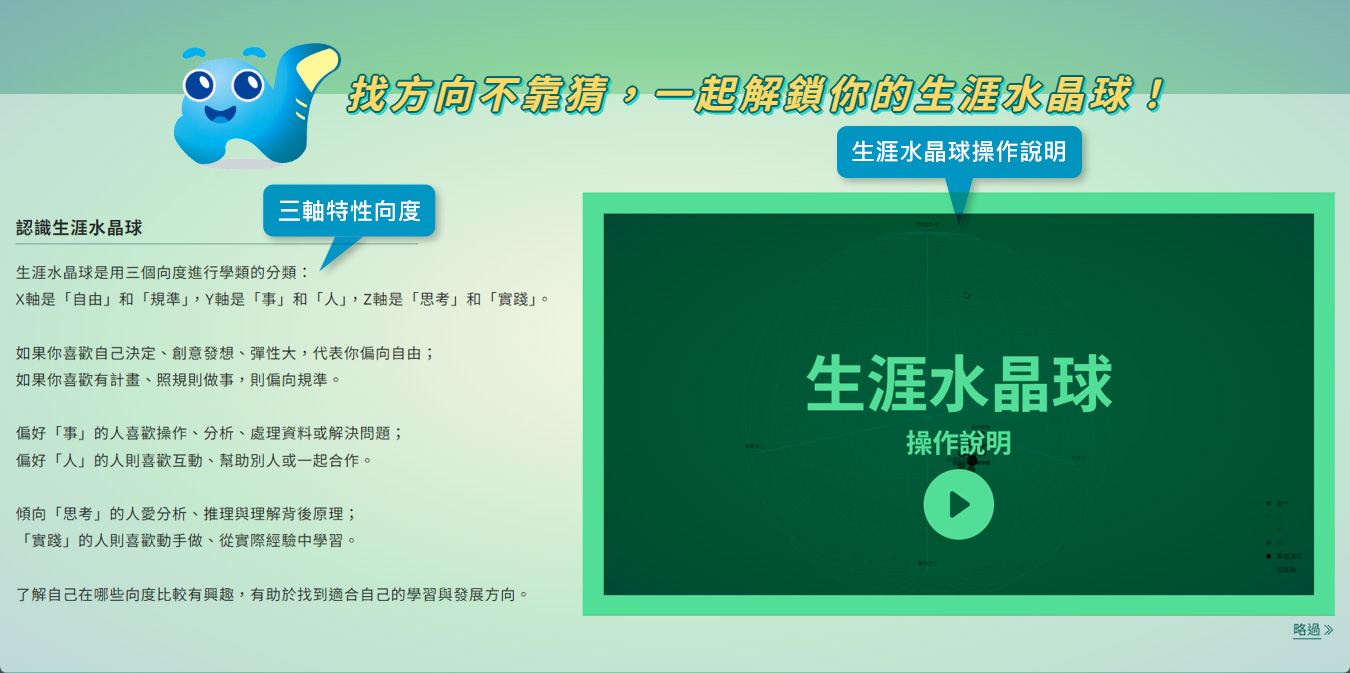
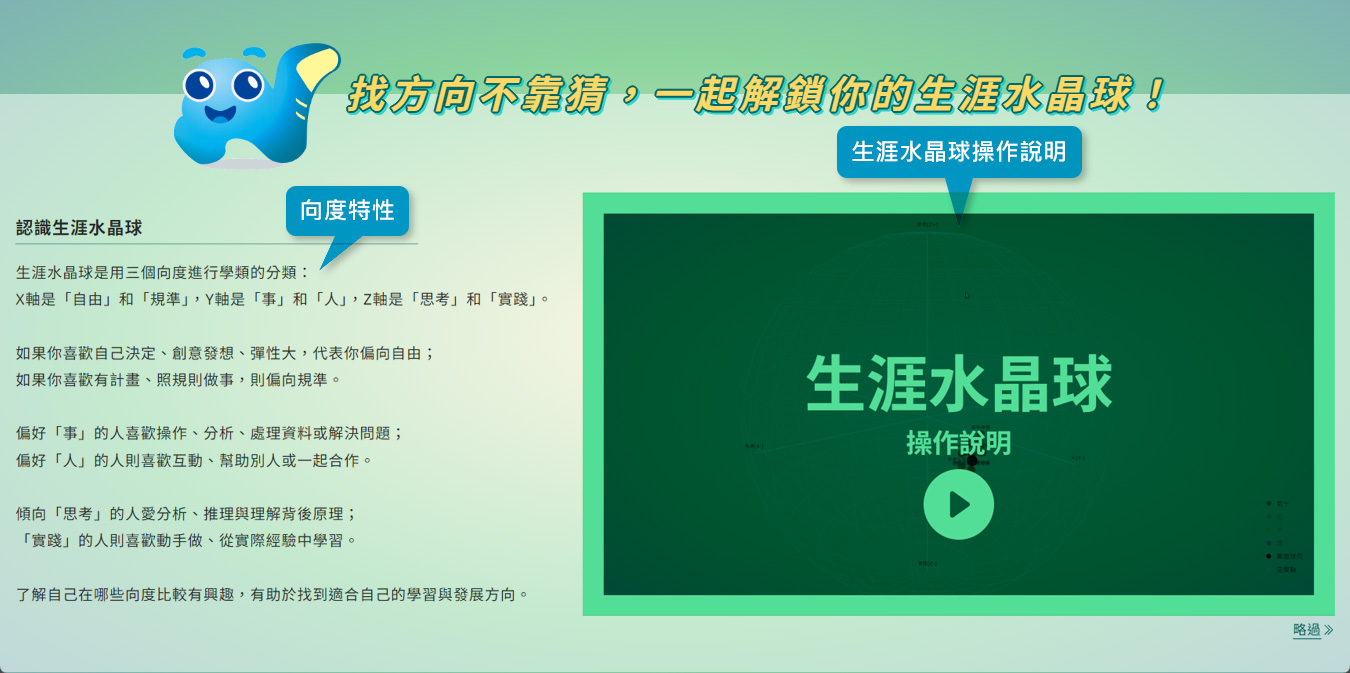
TEACHER 20260812

Changed region(s): [[0.1867, 0.2496, 0.3422, 0.3744]]

diff --git a/TEACHER/css/TI.css b/TEACHER/css/TI.css
@@ -27,7 +27,8 @@ ul.menu {
     width: 10px;
     height: 10px;
     background-image: url(../images/TI/UI.png);
-    background-position: 0px -96px; }
+    background-position: 0px -96px;
+    transform: translateX(-50%); }
   .subMenu .subMenu-bg {
     width: 100%; }
     .subMenu .subMenu-bg span {
@@ -48,33 +49,37 @@ ul.menu {
     .subMenu a:hover, .subMenu a.active {
       color: #fced03; }
   .subMenu.sub1 .subMenu-arrow {
-    margin-left: calc(938px/7*1 - 938px/7/2 - 10px/2); }
+    margin-left: 7.1428571429%; }
   .subMenu.sub1 .subMenu-bg {
     padding-left: 10px; }
   .subMenu.sub2 .subMenu-arrow {
-    margin-left: calc(938px/7*2 - 938px/7/2 - 10px/2); }
+    margin-left: 21.4285714286%; }
   .subMenu.sub2 .subMenu-bg {
-    padding-left: calc(938px/7*1); }
+    padding-left: 14.2857142857%; }
   .subMenu.sub3 .subMenu-arrow {
-    margin-left: calc(938px/7*3 - 938px/7/2 - 10px/2); }
+    margin-left: 35.7142857143%; }
   .subMenu.sub3 .subMenu-bg {
-    padding-left: calc(938px/7*2); }
+    padding-left: 28.5714285714%; }
   .subMenu.sub4 .subMenu-arrow {
-    margin-left: calc(938px/7*4 - 938px/7/2 - 10px/2); }
+    margin-left: 50%; }
   .subMenu.sub4 .subMenu-bg {
-    padding-left: calc(938px/7*3); }
+    padding-left: 42.8571428571%; }
   .subMenu.sub5 .subMenu-arrow {
-    margin-left: calc(938px/7*5 - 938px/7/2 - 10px/2); }
+    margin-left: 64.2857142857%; }
   .subMenu.sub5 .subMenu-bg {
-    padding-left: calc(938px/7*4); }
+    padding-left: 57.1428571429%; }
   .subMenu.sub6 .subMenu-arrow {
-    margin-left: calc(938px/7*6 - 938px/7/2 - 10px/2); }
+    margin-left: 78.5714285714%; }
   .subMenu.sub6 .subMenu-bg {
-    padding-left: calc(938px/7*5); }
+    padding-left: 71.4285714286%; }
   .subMenu.sub7 .subMenu-arrow {
-    margin-left: calc(938px/7*7 - 938px/7/2 - 10px/2); }
+    margin-left: 92.8571428571%; }
   .subMenu.sub7 .subMenu-bg {
-    padding-left: calc(938px/7*6); }
+    padding-left: 85.7142857143%; }
+  .subMenu.sub6 .subMenu-bg {
+    padding-left: 0;
+    text-align: right;
+    padding-right: 10px; }
 
 .subsubMenu {
   padding-top: 10px;
@@ -145,5 +150,3 @@ ul.menu {
         .content_block li dl dd .subtitle {
           color: #398006;
           font-size: 1.05em; }
-
-/*# sourceMappingURL=TI.css.map */

diff --git a/TEACHER/css/TA.css b/TEACHER/css/TA.css
@@ -27,7 +27,8 @@ ul.menu {
     width: 10px;
     height: 10px;
     background-image: url(../images/TA/UI.png);
-    background-position: 0px -96px; }
+    background-position: 0px -96px;
+    transform: translateX(-50%); }
   .subMenu .subMenu-bg {
     width: 100%; }
     .subMenu .subMenu-bg span {
@@ -48,33 +49,33 @@ ul.menu {
     .subMenu a:hover, .subMenu a.active {
       color: #fced03; }
   .subMenu.sub1 .subMenu-arrow {
-    margin-left: calc(938px/7*1 - 938px/7/2 - 10px/2); }
+    margin-left: 7.1428571429%; }
   .subMenu.sub1 .subMenu-bg {
     padding-left: 10px; }
   .subMenu.sub2 .subMenu-arrow {
-    margin-left: calc(938px/7*2 - 938px/7/2 - 10px/2); }
+    margin-left: 21.4285714286%; }
   .subMenu.sub2 .subMenu-bg {
-    padding-left: calc(938px/7*1); }
+    padding-left: 14.2857142857%; }
   .subMenu.sub3 .subMenu-arrow {
-    margin-left: calc(938px/7*3 - 938px/7/2 - 10px/2); }
+    margin-left: 35.7142857143%; }
   .subMenu.sub3 .subMenu-bg {
-    padding-left: calc(938px/7*2); }
+    padding-left: 28.5714285714%; }
   .subMenu.sub4 .subMenu-arrow {
-    margin-left: calc(938px/7*4 - 938px/7/2 - 10px/2); }
+    margin-left: 50%; }
   .subMenu.sub4 .subMenu-bg {
-    padding-left: calc(938px/7*3); }
+    padding-left: 42.8571428571%; }
   .subMenu.sub5 .subMenu-arrow {
-    margin-left: calc(938px/7*5 - 938px/7/2 - 10px/2); }
+    margin-left: 64.2857142857%; }
   .subMenu.sub5 .subMenu-bg {
-    padding-left: calc(938px/7*4); }
+    padding-left: 57.1428571429%; }
   .subMenu.sub6 .subMenu-arrow {
-    margin-left: calc(938px/7*6 - 938px/7/2 - 10px/2); }
+    margin-left: 78.5714285714%; }
   .subMenu.sub6 .subMenu-bg {
-    padding-left: calc(938px/7*5); }
+    padding-left: 71.4285714286%; }
   .subMenu.sub7 .subMenu-arrow {
-    margin-left: calc(938px/7*7 - 938px/7/2 - 10px/2); }
+    margin-left: 92.8571428571%; }
   .subMenu.sub7 .subMenu-bg {
-    padding-left: calc(938px/7*6); }
+    padding-left: 85.7142857143%; }
 
 .subsubMenu {
   padding-top: 10px;
@@ -145,5 +146,3 @@ ul.menu {
         .content_block li dl dd .subtitle {
           color: #0b5e61;
           font-size: 1.05em; }
-
-/*# sourceMappingURL=TA.css.map */

diff --git a/TEACHER/css/TW.css b/TEACHER/css/TW.css
@@ -27,7 +27,8 @@ ul.menu {
     width: 10px;
     height: 10px;
     background-image: url(../images/TW/UI.png);
-    background-position: 0px -96px; }
+    background-position: 0px -96px;
+    transform: translateX(-50%); }
   .subMenu .subMenu-bg {
     width: 100%; }
     .subMenu .subMenu-bg span {
@@ -48,33 +49,33 @@ ul.menu {
     .subMenu a:hover, .subMenu a.active {
       color: #fced03; }
   .subMenu.sub1 .subMenu-arrow {
-    margin-left: calc(938px/7*1 - 938px/7/2 - 10px/2); }
+    margin-left: 7.1428571429%; }
   .subMenu.sub1 .subMenu-bg {
     padding-left: 10px; }
   .subMenu.sub2 .subMenu-arrow {
-    margin-left: calc(938px/7*2 - 938px/7/2 - 10px/2); }
+    margin-left: 21.4285714286%; }
   .subMenu.sub2 .subMenu-bg {
-    padding-left: calc(938px/7*1); }
+    padding-left: 14.2857142857%; }
   .subMenu.sub3 .subMenu-arrow {
-    margin-left: calc(938px/7*3 - 938px/7/2 - 10px/2); }
+    margin-left: 35.7142857143%; }
   .subMenu.sub3 .subMenu-bg {
-    padding-left: calc(938px/7*2); }
+    padding-left: 28.5714285714%; }
   .subMenu.sub4 .subMenu-arrow {
-    margin-left: calc(938px/7*4 - 938px/7/2 - 10px/2); }
+    margin-left: 50%; }
   .subMenu.sub4 .subMenu-bg {
-    padding-left: calc(938px/7*3); }
+    padding-left: 42.8571428571%; }
   .subMenu.sub5 .subMenu-arrow {
-    margin-left: calc(938px/7*5 - 938px/7/2 - 10px/2); }
+    margin-left: 64.2857142857%; }
   .subMenu.sub5 .subMenu-bg {
-    padding-left: calc(938px/7*4); }
+    padding-left: 57.1428571429%; }
   .subMenu.sub6 .subMenu-arrow {
-    margin-left: calc(938px/7*6 - 938px/7/2 - 10px/2); }
+    margin-left: 78.5714285714%; }
   .subMenu.sub6 .subMenu-bg {
-    padding-left: calc(938px/7*5); }
+    padding-left: 71.4285714286%; }
   .subMenu.sub7 .subMenu-arrow {
-    margin-left: calc(938px/7*7 - 938px/7/2 - 10px/2); }
+    margin-left: 92.8571428571%; }
   .subMenu.sub7 .subMenu-bg {
-    padding-left: calc(938px/7*6); }
+    padding-left: 85.7142857143%; }
 
 .subsubMenu {
   padding-top: 10px;
@@ -145,5 +146,3 @@ ul.menu {
         .content_block li dl dd .subtitle {
           color: #ff4301;
           font-size: 1.05em; }
-
-/*# sourceMappingURL=TW.css.map */

diff --git a/TEACHER/css/Default.css b/TEACHER/css/Default.css
@@ -47,7 +47,8 @@
     width: 10px;
     height: 10px;
     background-image: url(../images/Default/UI.png);
-    background-position: 0px -96px; }
+    background-position: 0px -96px;
+    transform: translateX(-50%); }
   .subMenu .subMenu-bg {
     width: 100%; }
     .subMenu .subMenu-bg span {
@@ -68,33 +69,33 @@
     .subMenu a:hover, .subMenu a.active {
       color: #fced03; }
   .subMenu.sub1 .subMenu-arrow {
-    margin-left: calc(938px/7*1 - 938px/7/2 - 10px/2); }
+    margin-left: 7.1428571429%; }
   .subMenu.sub1 .subMenu-bg {
     padding-left: 10px; }
   .subMenu.sub2 .subMenu-arrow {
-    margin-left: calc(938px/7*2 - 938px/7/2 - 10px/2); }
+    margin-left: 21.4285714286%; }
   .subMenu.sub2 .subMenu-bg {
-    padding-left: calc(938px/7*1); }
+    padding-left: 14.2857142857%; }
   .subMenu.sub3 .subMenu-arrow {
-    margin-left: calc(938px/7*3 - 938px/7/2 - 10px/2); }
+    margin-left: 35.7142857143%; }
   .subMenu.sub3 .subMenu-bg {
-    padding-left: calc(938px/7*2); }
+    padding-left: 28.5714285714%; }
   .subMenu.sub4 .subMenu-arrow {
-    margin-left: calc(938px/7*4 - 938px/7/2 - 10px/2); }
+    margin-left: 50%; }
   .subMenu.sub4 .subMenu-bg {
-    padding-left: calc(938px/7*3); }
+    padding-left: 42.8571428571%; }
   .subMenu.sub5 .subMenu-arrow {
-    margin-left: calc(938px/7*5 - 938px/7/2 - 10px/2); }
+    margin-left: 64.2857142857%; }
   .subMenu.sub5 .subMenu-bg {
-    padding-left: calc(938px/7*4); }
+    padding-left: 57.1428571429%; }
   .subMenu.sub6 .subMenu-arrow {
-    margin-left: calc(938px/7*6 - 938px/7/2 - 10px/2); }
+    margin-left: 78.5714285714%; }
   .subMenu.sub6 .subMenu-bg {
-    padding-left: calc(938px/7*5); }
+    padding-left: 71.4285714286%; }
   .subMenu.sub7 .subMenu-arrow {
-    margin-left: calc(938px/7*7 - 938px/7/2 - 10px/2); }
+    margin-left: 92.8571428571%; }
   .subMenu.sub7 .subMenu-bg {
-    padding-left: calc(938px/7*6); }
+    padding-left: 85.7142857143%; }
 
 .subsubMenu {
   padding-top: 10px;
@@ -332,5 +333,3 @@ a.contract {
   vertical-align: middle;
   border-radius: 50%;
   padding: 5px; }
-
-/*# sourceMappingURL=Default.css.map */

diff --git a/TEACHER/sass/_subMenuStyles.scss b/TEACHER/sass/_subMenuStyles.scss
@@ -6,6 +6,7 @@
 		height: 10px;
 		background-image:url(../images/#{$get-path}/UI.png);
 		background-position: 0px -96px;
+		transform: translateX(-50%);
 	}
 	.subMenu-bg{ 
 		width:100%;
@@ -33,32 +34,32 @@
 	}
 	
 	&.sub1{
-		.subMenu-arrow{ margin-left: calc(938px/7*1 - 938px/7/2 - 10px/2);}
-		.subMenu-bg{ padding-left:10px;}
+		.subMenu-arrow{ margin-left: 100%/7*1 - 100%/7*.5; }
+		.subMenu-bg{   padding-left: 10px; }
 	}
 	&.sub2{
-		.subMenu-arrow{ margin-left: calc(938px/7*2 - 938px/7/2 - 10px/2);}
-		.subMenu-bg{ padding-left: calc(938px/7*1);}		
+		.subMenu-arrow{ margin-left: 100%/7*2 - 100%/7*.5; }
+		.subMenu-bg{   padding-left: 100%/7*1; }		
 	}
 	&.sub3{
-		.subMenu-arrow{ margin-left: calc(938px/7*3 - 938px/7/2 - 10px/2);}
-		.subMenu-bg{ padding-left: calc(938px/7*2);}		
+		.subMenu-arrow{ margin-left: 100%/7*3 - 100%/7*.5; }
+		.subMenu-bg{   padding-left: 100%/7*2; }		
 	}
 	&.sub4{
-		.subMenu-arrow{ margin-left: calc(938px/7*4 - 938px/7/2 - 10px/2);}
-		.subMenu-bg{ padding-left: calc(938px/7*3);}		
+		.subMenu-arrow{ margin-left: 100%/7*4 - 100%/7*.5; }
+		.subMenu-bg{   padding-left: 100%/7*3; }		
 	}
 	&.sub5{
-		.subMenu-arrow{ margin-left: calc(938px/7*5 - 938px/7/2 - 10px/2);}
-		.subMenu-bg{ padding-left: calc(938px/7*4);}		
+		.subMenu-arrow{ margin-left: 100%/7*5 - 100%/7*.5; }
+		.subMenu-bg{   padding-left: 100%/7*4; }		
 	}
 	&.sub6{
-		.subMenu-arrow{ margin-left: calc(938px/7*6 - 938px/7/2 - 10px/2);}
-		.subMenu-bg{ padding-left: calc(938px/7*5);}		
+		.subMenu-arrow{ margin-left: 100%/7*6 - 100%/7*.5; }
+		.subMenu-bg{   padding-left: 100%/7*5; }	 	
 	}
 	&.sub7{
-		.subMenu-arrow{ margin-left: calc(938px/7*7 - 938px/7/2 - 10px/2);}
-		.subMenu-bg{ padding-left: calc(938px/7*6);}		
+		.subMenu-arrow{ margin-left: 100%/7*7 - 100%/7*.5; }
+		.subMenu-bg{   padding-left: 100%/7*6; }		
 	}
 }
 

diff --git a/TEACHER/sass/TI.scss b/TEACHER/sass/TI.scss
@@ -12,6 +12,9 @@ ul.menu{
 
 .subMenu{
 	@include subMenuStyles($get-path:$test-name);
+	&.sub6{
+		.subMenu-bg{   padding-left: 0; text-align: right; padding-right: 10px; }		
+	}
 }
 .subsubMenu{
 	@include subsubMenuStyles($get-subsubcolor:#04634B, $get-path:$test-name);
